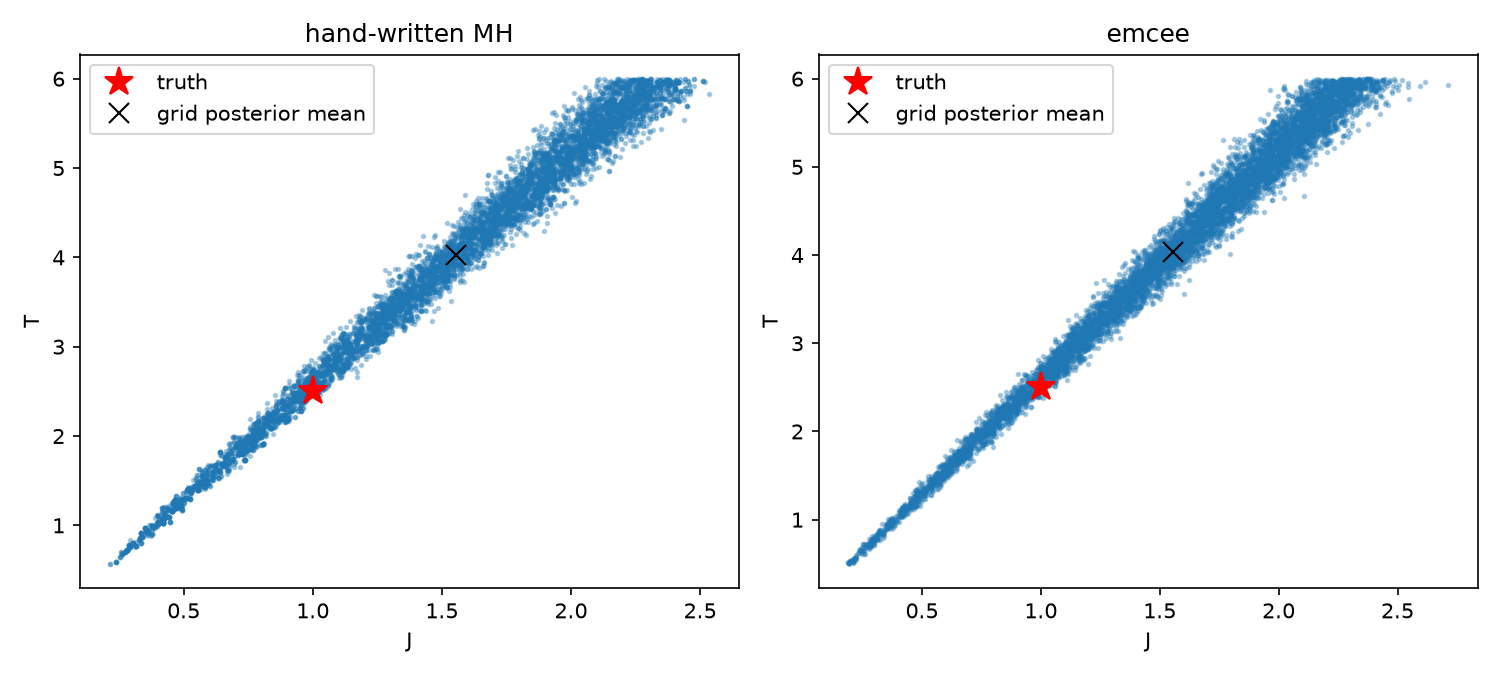
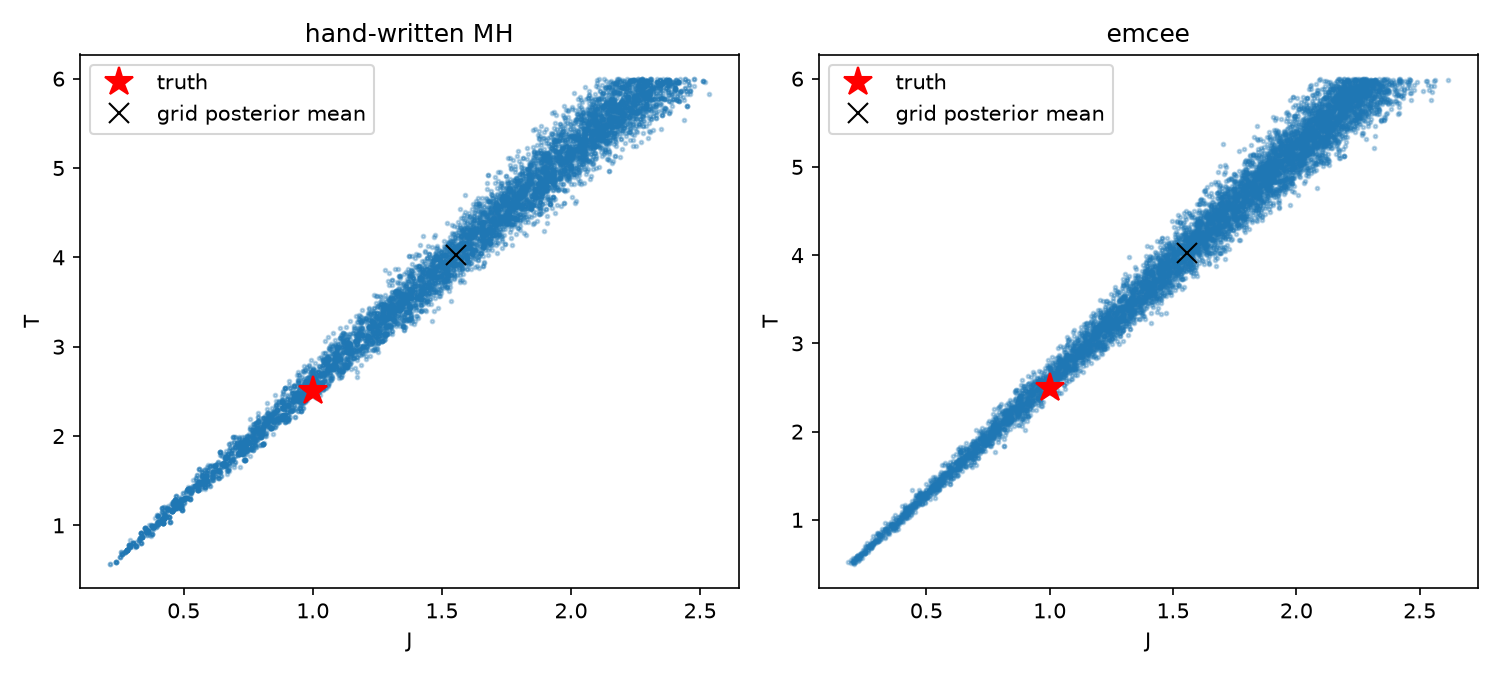
Update figures and make_figures script

diff --git a/tests/make_figures.py b/tests/make_figures.py
@@ -85,7 +85,10 @@ def overdispersed(n, T, n_run, seed):
         _cache[key] = out
     return _cache[key]
 
-def test_D1_trace_plots(seed, tmp_path):
+import os
+
+def test_D1_trace_plots(seed):
+    import pathlib
     import matplotlib.pyplot as plt
 
     out = overdispersed(8, 3.5, N_RUN + BURN, seed)
@@ -95,5 +98,26 @@ def test_D1_trace_plots(seed, tmp_path):
         ax[1].plot(np.abs(M[:2000]), lw=0.6, label=name)
     ax[0].set_ylabel("E/N^2")
     ax[1].set_ylabel("|M|")
+    ax[0].set_xlabel("sweep")
+    ax[1].set_xlabel("sweep")
     ax[0].legend()
-    plt.show()
+    fig.tight_layout()
+    path = pathlib.Path("traces.png").resolve()
+    fig.savefig(path, dpi=150)
+    print("saved to", path)
+    assert path.exists()
+
+from test_ising import starts, run_chain  # same helpers the test uses
+
+rng = np.random.default_rng(900)
+fig, ax = plt.subplots(1, 2, figsize=(11, 3.5))
+for name, init in starts(8, rng).items():
+    E, M = run_chain(init, 1.0, 3.5, 2000, rng, n_burn=0)
+    ax[0].plot(E, lw=0.6, label=name)
+    ax[1].plot(np.abs(M), lw=0.6, label=name)
+ax[0].set_ylabel("E/N^2"); ax[1].set_ylabel("|M|")
+ax[0].set_xlabel("sweep"); ax[1].set_xlabel("sweep")
+ax[0].legend()
+fig.tight_layout()
+fig.savefig("traces.png", dpi=150)
+print("saved to", os.path.abspath("traces.png"))
